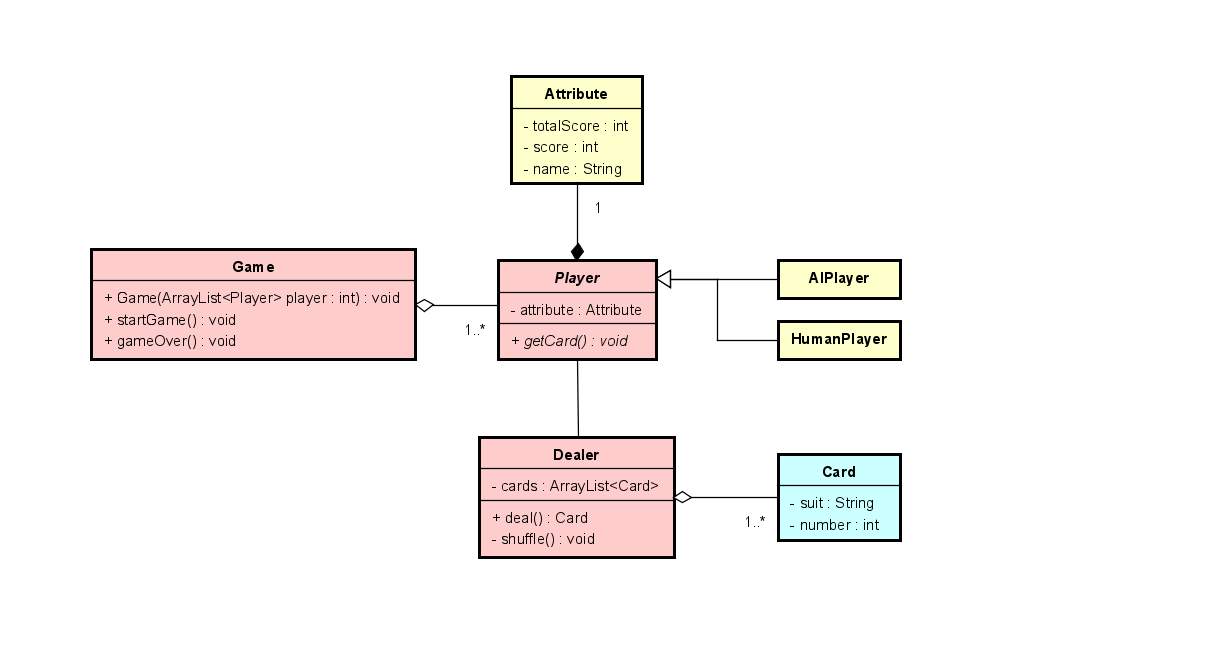
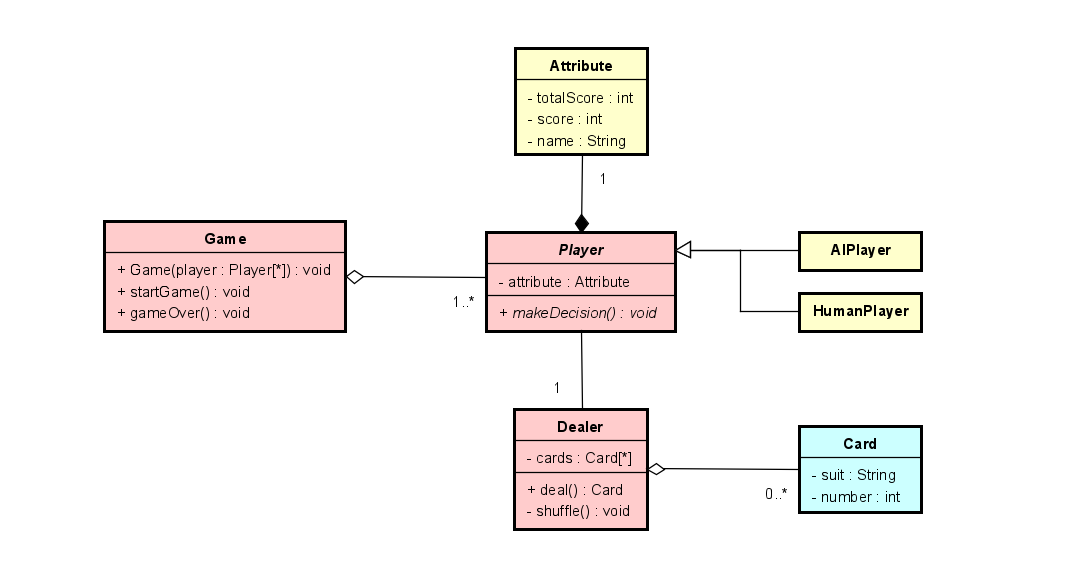
Fixed naming problem & parameter type

Changed region(s): [[0.0617, 0.3692, 0.8636, 0.5846], [0.3701, 0.6462, 0.8636, 0.9231], [0.4009, 0.0615, 0.6168, 0.3077]]

diff --git a/Chaoyuuu/21點撲克牌遊戲/src/game/Game.java b/Chaoyuuu/21點撲克牌遊戲/src/game/Game.java
@@ -3,25 +3,25 @@ package game;
 import bank.Dealer;
 import player.Player;
 import utils.SortPlayerTotalScore;
-import java.util.ArrayList;
+
 import java.util.Collections;
+import java.util.List;
+
 import static utils.Delay.delay;
 
 public class Game {
-    private ArrayList<Player> players;
+    private List<Player> players;
     private Dealer dealer = new Dealer();
 
-    public Game(ArrayList<Player> players) {
+    public Game(List<Player> players) {
         this.players = players;
     }
 
-    public void startGame(){
+    public void startGame() {
         resetScore();
-        for(Player player: players){
-            System.out.printf("\n輪到 %s 了 !!\n",  player.getPlayerName());
-            player.getCard(dealer);
-
-            //print the totalNum
+        for (Player player : players) {
+            System.out.printf("\n輪到 %s 了 !!\n", player.getPlayerName());
+            player.makeDecision(dealer);
             System.out.printf("%s 得到了 .. %d分\n", player.getPlayerName(), player.getPlayerScore());
         }
 
@@ -31,16 +31,16 @@ public class Game {
         System.out.printf("* * %s是贏家，獲得一分 * *\n\n", winner.getPlayerName());
     }
 
-    private void resetScore(){
-        for(Player player: players){
+    private void resetScore() {
+        for (Player player : players) {
             player.resetPlayerScore();
         }
     }
 
-    private Player whoIsWinner(){
+    private Player whoIsWinner() {
         Player winner;
         winner = players.get(0);
-        for(Player player:players){
+        for (Player player : players) {
             if (winner.getPlayerScore() < player.getPlayerScore())
                 winner = player;
         }
@@ -49,12 +49,12 @@ public class Game {
         return winner;
     }
 
-    public void gameOver(){
+    public void gameOver() {
         System.out.println("- - 遊戲結束 - -");
-        Collections.sort(players, new SortPlayerTotalScore());
+        players.sort(new SortPlayerTotalScore());
 
         int rank = 1;
-        for(Player player:players){
+        for (Player player : players) {
             System.out.printf("第%d名: %s\n", rank, player.getPlayerName());
             rank++;
         }

diff --git a/Chaoyuuu/21點撲克牌遊戲/src/game/Main.java b/Chaoyuuu/21點撲克牌遊戲/src/game/Main.java
@@ -1,31 +1,32 @@
 package game;
 import player.*;
 import java.util.ArrayList;
+import java.util.List;
 import java.util.Scanner;
 
 public class Main {
     public static void main(String[] args) {
-        ArrayList<Player> players = initPlayer();
+        List<Player> players = initPlayers();
         Game game = new Game(players);
 
-        for(int i = 0 ; i < 3; i++){
+        for (int i = 0; i < 3; i++) {
             System.out.printf("- - ROUND %d - -", i + 1);
             game.startGame();
         }
         game.gameOver();
     }
 
-    public static ArrayList<Player> initPlayer(){
+    public static List<Player> initPlayers() {
         ArrayList<Player> initPlayers = new ArrayList<>();
 
-        int humanPlayerNum, AIPlayerNum;
+        int humanPlayerNum, aiPlayerNum;
         Scanner scanner = new Scanner(System.in);
 
         //init player
         System.out.print("有幾位玩家? ");
         humanPlayerNum = scanner.nextInt();
         System.out.print("有幾位電腦玩家? ");
-        AIPlayerNum = scanner.nextInt();
+        aiPlayerNum = scanner.nextInt();
 
         scanner.nextLine(); //throw "/n"
 
@@ -36,20 +37,19 @@ public class Main {
             initPlayers.add(humanPlayer);
         }
 
-        for (int i = humanPlayerNum; i < humanPlayerNum + AIPlayerNum; i++){
+        for (int i = humanPlayerNum; i < humanPlayerNum + aiPlayerNum; i++) {
             Player AIPlayer = new AIPlayer(new Attribute("AI-" + i));
             initPlayers.add(AIPlayer);
         }
 
         //random player
-        return randomPlayer(initPlayers);
+        return shufflePlayers(initPlayers);
     }
 
-    public static ArrayList<Player> randomPlayer(ArrayList<Player> initPlayers){
-        //random player
-        ArrayList<Player> players = new ArrayList<>();
+    public static List<Player> shufflePlayers(List<Player> initPlayers) {
+        List<Player> players = new ArrayList<>();
         int totalNum = initPlayers.size();
-        while (totalNum != 0){
+        while (totalNum != 0) {
             int randomNum = (int) (Math.random() * totalNum);
             Player player = initPlayers.remove(randomNum);
             players.add(player);

diff --git a/Chaoyuuu/21點撲克牌遊戲/src/player/HumanPlayer.java b/Chaoyuuu/21點撲克牌遊戲/src/player/HumanPlayer.java
@@ -1,5 +1,7 @@
 package player;
+
 import bank.*;
+
 import java.util.Scanner;
 
 public class HumanPlayer extends Player {
@@ -8,23 +10,23 @@ public class HumanPlayer extends Player {
     }
 
     @Override
-    public void getCard(Dealer dealer) {
+    public void makeDecision(Dealer dealer) {
         Card card;
         boolean hit = true;
         Scanner scanner = new Scanner(System.in);
 
-        while (hit){
+        while (hit) {
             card = dealer.deal();
             setPlayerScore(card.getNumber());
 
-            if(overTwentyOne()){  //over, get zero point
-                System.out.printf( "翻開了 .... %s %d\n", card.getSuit(), card.getNumber());
+            if (isOverTwentyOne()) {  //over, get zero point
+                System.out.printf("翻開了 .... %s %d\n", card.getSuit(), card.getNumber());
                 return;
             } else {
-                System.out.printf( "翻開了 .... %s %d\n請問 %s 要翻開下一張牌嗎(y/n)? ", card.getSuit(), card.getNumber(), this.getPlayerName());
+                System.out.printf("翻開了 .... %s %d\n請問 %s 要翻開下一張牌嗎(y/n)? ", card.getSuit(), card.getNumber(), this.getPlayerName());
                 hit = scanner.next().equalsIgnoreCase("y");
             }
         }
-        return;
+
     }
 }

diff --git a/Chaoyuuu/21點撲克牌遊戲/src/player/AIPlayer.java b/Chaoyuuu/21點撲克牌遊戲/src/player/AIPlayer.java
@@ -8,7 +8,7 @@ public class AIPlayer extends Player {
     }
 
     @Override
-    public void getCard(Dealer dealer) {
+    public void makeDecision(Dealer dealer) {
         Card card;
 
         //get one card for the first round
@@ -16,11 +16,11 @@ public class AIPlayer extends Player {
         setPlayerScore(card.getNumber());
         System.out.printf( "翻開了 .... %s %d\n請問 %s 要翻開下一張牌嗎(y/n)? ", card.getSuit(), card.getNumber(), this.getPlayerName());
 
-        while (ifHit()){
+        while (isHit()){
             System.out.println("y");
             card = dealer.deal();
             setPlayerScore(card.getNumber());
-            if(overTwentyOne()){  //over, get zero point
+            if(isOverTwentyOne()){  //over, get zero point
                 System.out.printf( "翻開了 .... %s %d\n", card.getSuit(), card.getNumber());
                 return;
             } else {
@@ -31,7 +31,7 @@ public class AIPlayer extends Player {
         return;
     }
 
-    private boolean ifHit(){
+    private boolean isHit(){
         int random = (int)(Math.random() * 100);
         int mod = random % 2;
         delay(200);

diff --git a/Chaoyuuu/21點撲克牌遊戲/src/player/Player.java b/Chaoyuuu/21點撲克牌遊戲/src/player/Player.java
@@ -34,7 +34,7 @@ public abstract class Player {
         attribute.setTotalScore(newScore);
     }
 
-    public boolean overTwentyOne(){
+    public boolean isOverTwentyOne(){
         int score = attribute.getScore();
         if(score > 21){
             attribute.setScore(0);
@@ -43,5 +43,5 @@ public abstract class Player {
         return false;
     }
 
-    public abstract void getCard(Dealer dealer);
+    public abstract void makeDecision(Dealer dealer);
 }
